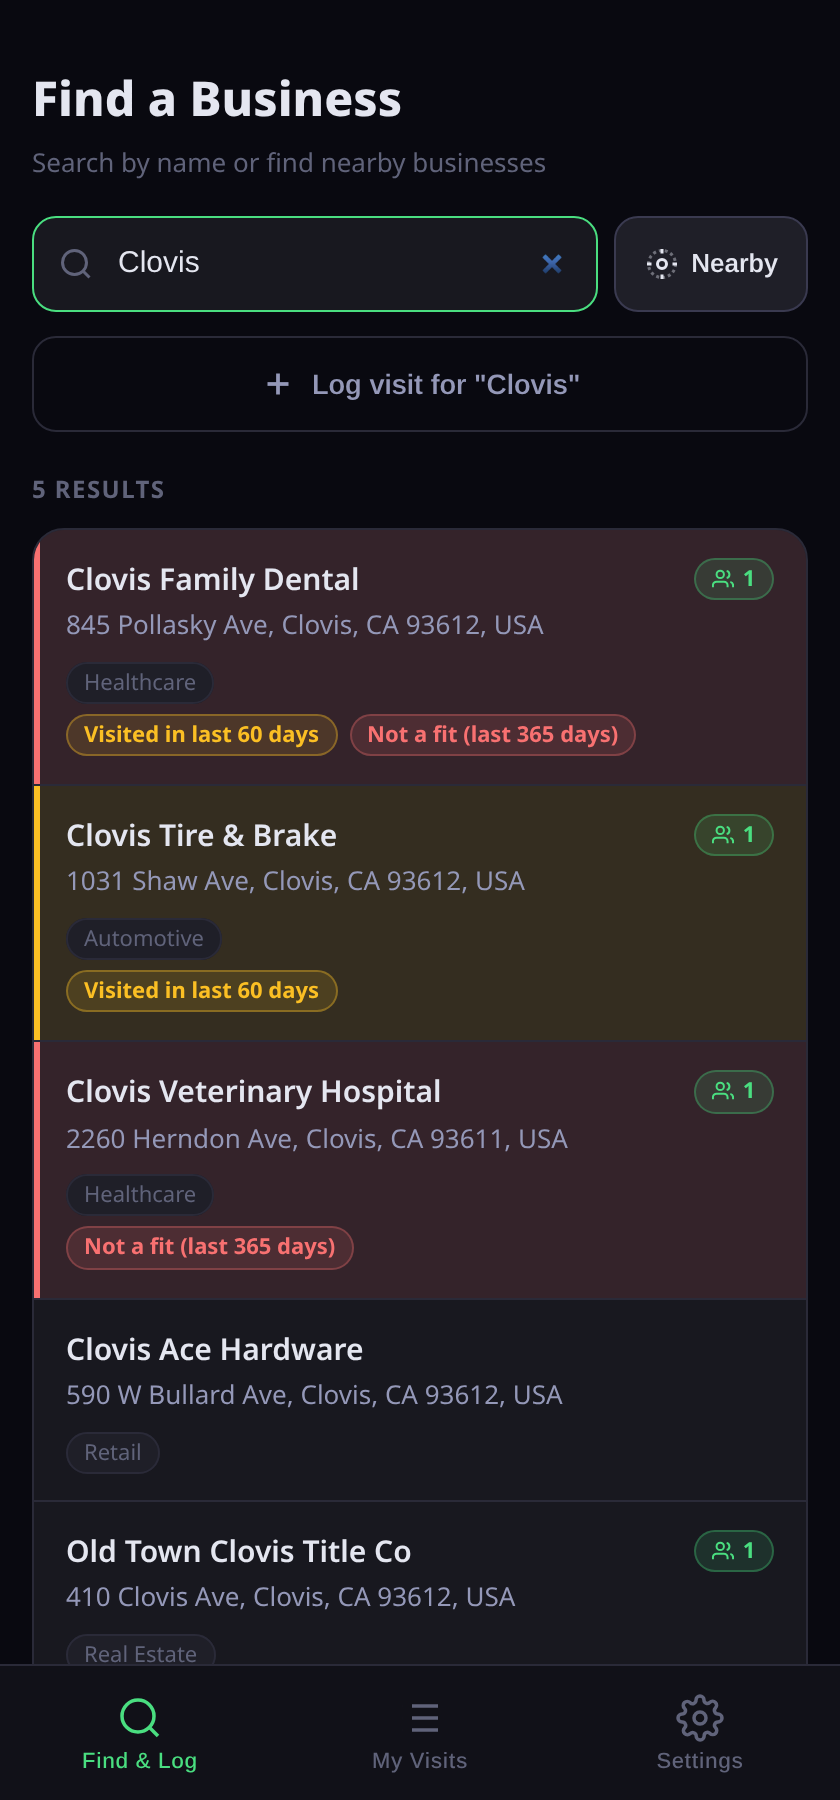
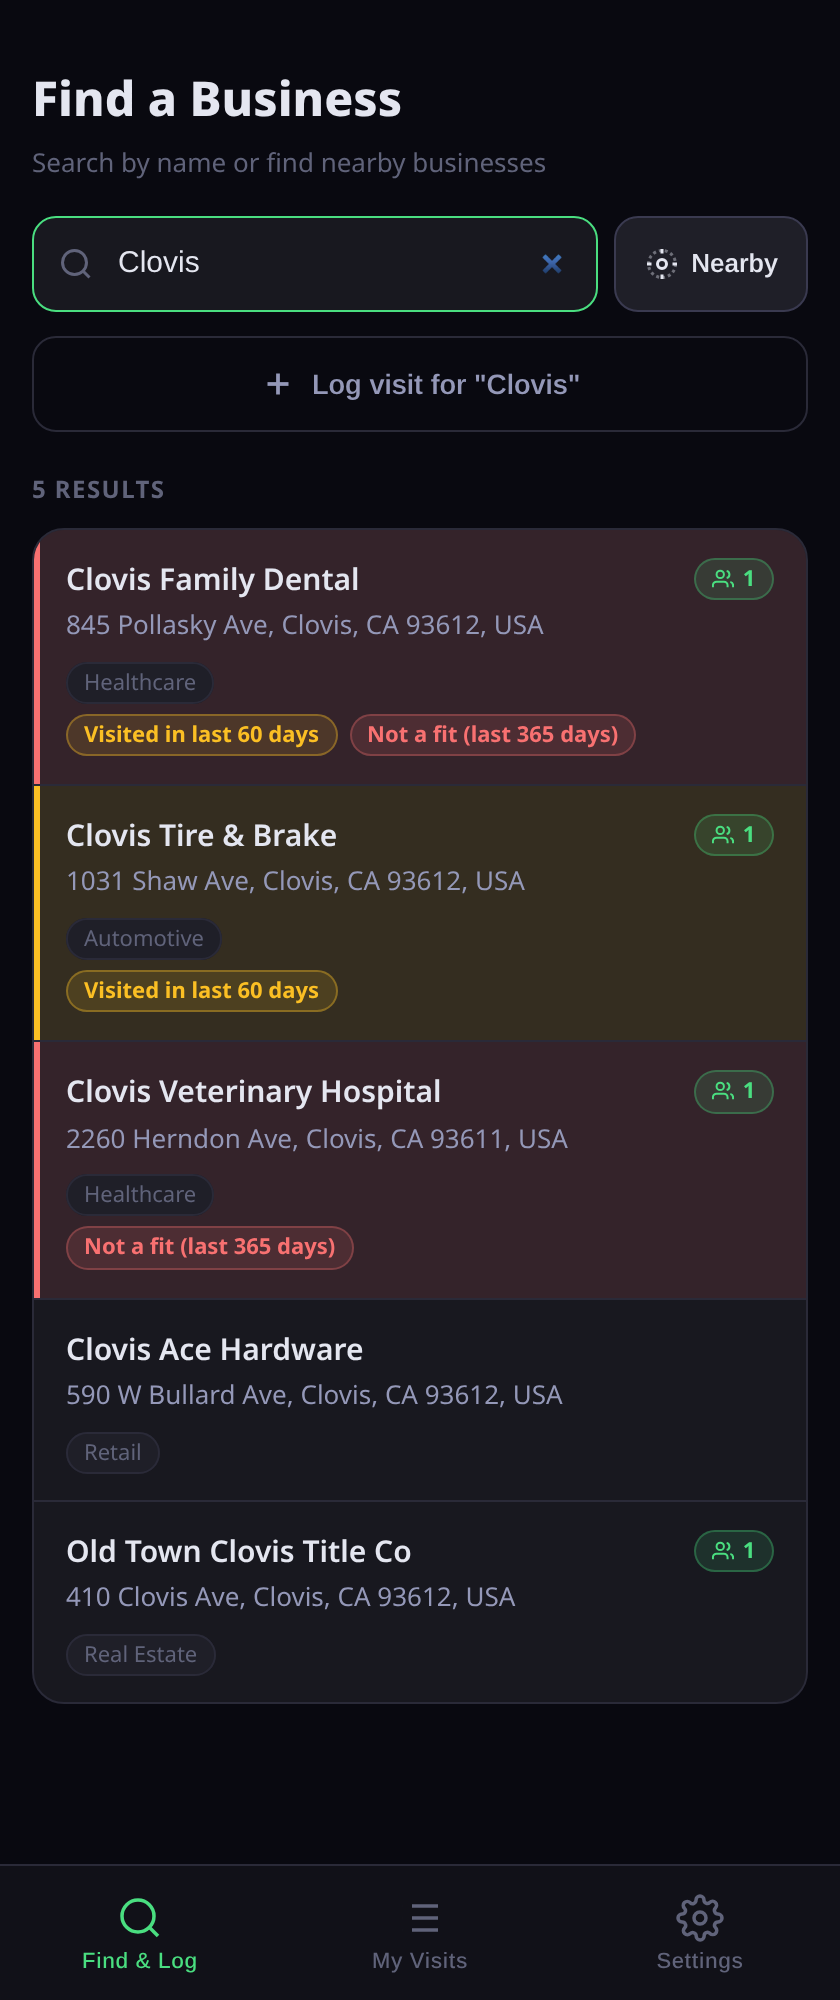
Show flagged Nearby businesses under a Recently worked divider
Ashton asked that muted businesses still show. Remove hideMutedPlaces and the hidden-count note. Nearby lists every place, with flagged ones (60-day visited / 365-day not-a-fit) amber/red highlighted with pills, sorted last via nearbyRank under a Recently worked (N) divider. Replace hiding tests with partitionNearbyPlaces sorting/flag tests. Retake Nearby screenshot as nearby-recently-worked.png.

diff --git a/src/components/SearchView.jsx b/src/components/SearchView.jsx
@@ -1,7 +1,7 @@
 import { useState, useRef, useCallback } from 'react'
 import { searchByName, findNearby, formatDist } from '../utils/places.js'
 import { getAllVisits, getVisitsForPlace, selectVisitsForPlace } from '../db/db.js'
-import { applyCompanySnapshot, mergeVisitHistories, summarizeHistory, pillLabel, nearbyRank, flagPills, hideMutedPlaces } from '../utils/visitHistory.js'
+import { applyCompanySnapshot, mergeVisitHistories, summarizeHistory, pillLabel, nearbyRank, flagPills, partitionNearbyPlaces } from '../utils/visitHistory.js'
 import { readTeamHistoryCache, fetchTeamHistoryBatch, teamHistoryConfigured } from '../sync/historyService.js'
 
 const IconSearch = () => (
@@ -71,7 +71,7 @@ function FlagPills({ summary, style }) {
 }
 
 function BizCard({ biz, onSelect }) {
-  // Muted places never reach Nearby, so flags only show (as highlights) in name search.
+  // Recent / not-a-fit places get the same amber/red highlight and pills in Nearby and name search.
   return (
     <div className={['biz-card', ...flagClasses(biz.history)].join(' ')} onClick={() => onSelect(biz)}>
       <div className="biz-card-head">
@@ -241,9 +241,13 @@ export default function SearchView({ onSelectBusiness }) {
   }, [query, onSelectBusiness])
 
   const isSearching = loading || gpsLoading
-  const { visible, hiddenCount } = mode === 'gps'
-    ? hideMutedPlaces(results)
-    : { visible: results, hiddenCount: 0 }
+  // Nearby is ranked with muted places last; split them off so a divider can sit above them.
+  const { active, flagged } = mode === 'gps'
+    ? partitionNearbyPlaces(results)
+    : { active: results, flagged: [] }
+  const renderCard = (biz, i) => (
+    <BizCard key={biz.placeId || biz.name + i} biz={biz} onSelect={onSelectBusiness} />
+  )
 
   return (
     <div className="view-inner">
@@ -312,10 +316,10 @@ export default function SearchView({ onSelectBusiness }) {
       {!isSearching && results.length > 0 && (
         <>
           <p className="section-title">
-            {mode === 'gps' ? `${visible.length} nearby businesses` : `${visible.length} results`}
+            {mode === 'gps' ? `${results.length} nearby businesses` : `${results.length} results`}
           </p>
           {mode === 'gps' && (() => {
-            const { due, neu } = coverageStats(visible)
+            const { due, neu } = coverageStats(results)
             return (
               <p className="coverage-strip">
                 {due > 0 && <span>{due} due</span>}
@@ -323,16 +327,13 @@ export default function SearchView({ onSelectBusiness }) {
               </p>
             )
           })()}
-          {hiddenCount > 0 && (
-            <p className="muted-note">{hiddenCount} recently visited / not-a-fit hidden</p>
-          )}
-          {visible.length > 0 && (
-            <div className="card" style={{ marginBottom: 16 }}>
-              {visible.map((biz, i) => (
-                <BizCard key={biz.placeId || biz.name + i} biz={biz} onSelect={onSelectBusiness} />
-              ))}
-            </div>
-          )}
+          <div className="card" style={{ marginBottom: 16 }}>
+            {active.map(renderCard)}
+            {flagged.length > 0 && (
+              <div className="nearby-divider">Recently worked ({flagged.length})</div>
+            )}
+            {flagged.map((biz, i) => renderCard(biz, active.length + i))}
+          </div>
         </>
       )}
 

diff --git a/src/utils/visitHistory.test.js b/src/utils/visitHistory.test.js
@@ -3,7 +3,7 @@ import {
   summarizeHistory,
   flagPills,
   nearbyRank,
-  hideMutedPlaces,
+  partitionNearbyPlaces,
   isNotAFit,
   mergeVisitHistories,
   OUTCOME_LABELS
@@ -239,22 +239,50 @@ describe('nearbyRank', () => {
   })
 })
 
-describe('hideMutedPlaces', () => {
-  it('hides recent and not-a-fit places and counts them', () => {
-    const places = [
-      { name: 'New', history: null },
-      { name: 'Prior', history: summarize([visit(90)]) },
-      { name: 'Recent', history: summarize([visit(10)]) },
-      { name: 'Not a fit', history: summarize([visit(200, { outcome: 'not-a-fit' })]) },
-      { name: 'Cleared', history: summarize([visit(200, { outcome: 'not-a-fit' }), visit(100, { outcome: 'left-info' })]) }
-    ]
-    const { visible, hiddenCount } = hideMutedPlaces(places)
-    expect(visible.map(p => p.name)).toEqual(['New', 'Prior', 'Cleared'])
-    expect(hiddenCount).toBe(2)
+describe('Nearby ordering', () => {
+  // Same comparator SearchView uses for Nearby.
+  const rankNearby = list => [...list].sort((a, b) =>
+    nearbyRank(a.history) - nearbyRank(b.history) || a.distMeters - b.distMeters
+  )
+  const places = () => [
+    { name: 'Not a fit', distMeters: 50, history: summarize([visit(200, { outcome: 'not-a-fit' })]) },
+    { name: 'Recent', distMeters: 100, history: summarize([visit(10)]) },
+    { name: 'New far', distMeters: 400, history: null },
+    { name: 'New near', distMeters: 150, history: null },
+    { name: 'Cleared', distMeters: 300, history: summarize([visit(200, { outcome: 'not-a-fit' }), visit(100, { outcome: 'left-info' })]) },
+    { name: 'Due', distMeters: 500, history: summarize([visit(90, { followUpDate: '2026-10-01' })]) }
+  ]
+
+  it('sorts muted places last, even when closer', () => {
+    expect(rankNearby(places()).map(p => p.name)).toEqual([
+      'Due', 'New near', 'New far', 'Cleared', 'Not a fit', 'Recent'
+    ])
   })
 
-  it('handles an empty list', () => {
-    expect(hideMutedPlaces([])).toEqual({ visible: [], hiddenCount: 0 })
+  it('keeps every place and splits flagged ones off in order', () => {
+    const { active, flagged } = partitionNearbyPlaces(rankNearby(places()))
+    expect(active.map(p => p.name)).toEqual(['Due', 'New near', 'New far', 'Cleared'])
+    expect(flagged.map(p => p.name)).toEqual(['Not a fit', 'Recent'])
+    expect(flagged.length).toBe(2) // "Recently worked (2)"
+  })
+
+  it('flagged places keep their pills', () => {
+    const { flagged } = partitionNearbyPlaces(places())
+    expect(flagged.map(p => flagPills(p.history))).toEqual([
+      ['Not a fit (last 365 days)'],
+      ['Visited in last 60 days']
+    ])
+  })
+
+  it('has no flagged group when nothing is muted', () => {
+    const { active, flagged } = partitionNearbyPlaces([{ name: 'New', history: null }])
+    expect(active).toHaveLength(1)
+    expect(flagged).toEqual([])
+  })
+
+  it('handles an empty or missing list', () => {
+    expect(partitionNearbyPlaces([])).toEqual({ active: [], flagged: [] })
+    expect(partitionNearbyPlaces(undefined)).toEqual({ active: [], flagged: [] })
   })
 })
 

diff --git a/src/index.css b/src/index.css
@@ -347,7 +347,7 @@ html, body {
 .biz-card:last-child { border-bottom: none; }
 .biz-card:active { background: var(--s3); }
 
-/* Name search: highlight (never dim) doors that were recently visited or marked not a fit.
+/* Nearby and name search: highlight (never dim) doors that were recently visited or marked not a fit.
    Not-a-fit comes second so it wins when both apply. */
 .biz-card.flag-recent {
   background: var(--yellow-dim);
@@ -383,10 +383,14 @@ html, body {
   border: 1px solid rgba(248,113,113,0.3);
 }
 
-.muted-note {
-  font-size: 12px;
+.nearby-divider {
+  font-size: 11px;
+  font-weight: 700;
   color: var(--text3);
-  margin: -4px 0 10px;
+  text-transform: uppercase;
+  letter-spacing: 0.06em;
+  padding: 14px 16px 8px;
+  border-bottom: 1px solid var(--border);
 }
 
 .biz-card-head {

diff --git a/src/utils/visitHistory.js b/src/utils/visitHistory.js
@@ -197,13 +197,13 @@ export function nearbyRank(summary) {
   return 2
 }
 
-/** Nearby hides muted places entirely; the caller shows hiddenCount as a note. */
-export function hideMutedPlaces(places) {
-  const visible = []
-  let hiddenCount = 0
+/** Splits a ranked Nearby list into unflagged places and the "Recently worked" group, keeping order. */
+export function partitionNearbyPlaces(places) {
+  const active = []
+  const flagged = []
   for (const p of places || []) {
-    if (p.history?.muted) hiddenCount++
-    else visible.push(p)
+    if (p.history?.muted) flagged.push(p)
+    else active.push(p)
   }
-  return { visible, hiddenCount }
+  return { active, flagged }
 }

diff --git a/src/dev/fixtures.js b/src/dev/fixtures.js
@@ -29,7 +29,8 @@ function place(id, name, address1, city, zip, phone, industry, offset) {
   }
 }
 
-// Nearby: plain, prior, due and cleared-not-a-fit cards show; recent + not-a-fit are hidden.
+// Nearby: plain, prior, due and cleared-not-a-fit cards first; recent (Fig Garden) and
+// not-a-fit (Shaw Law) sort under the "Recently worked (2)" divider with their pills.
 const NEARBY = [
   place('sierra-dental', 'Sierra Vista Dental Group', '1420 W Shaw Ave', 'Fresno', '93711', '(559) 555-0141', 'Healthcare', [0.0006, 0.0004]),
   place('tower-coffee', 'Tower District Coffee Co', '1180 N Wishon Ave', 'Fresno', '93728', '(559) 555-0172', 'Food & Beverage', [-0.0009, 0.0011]),
